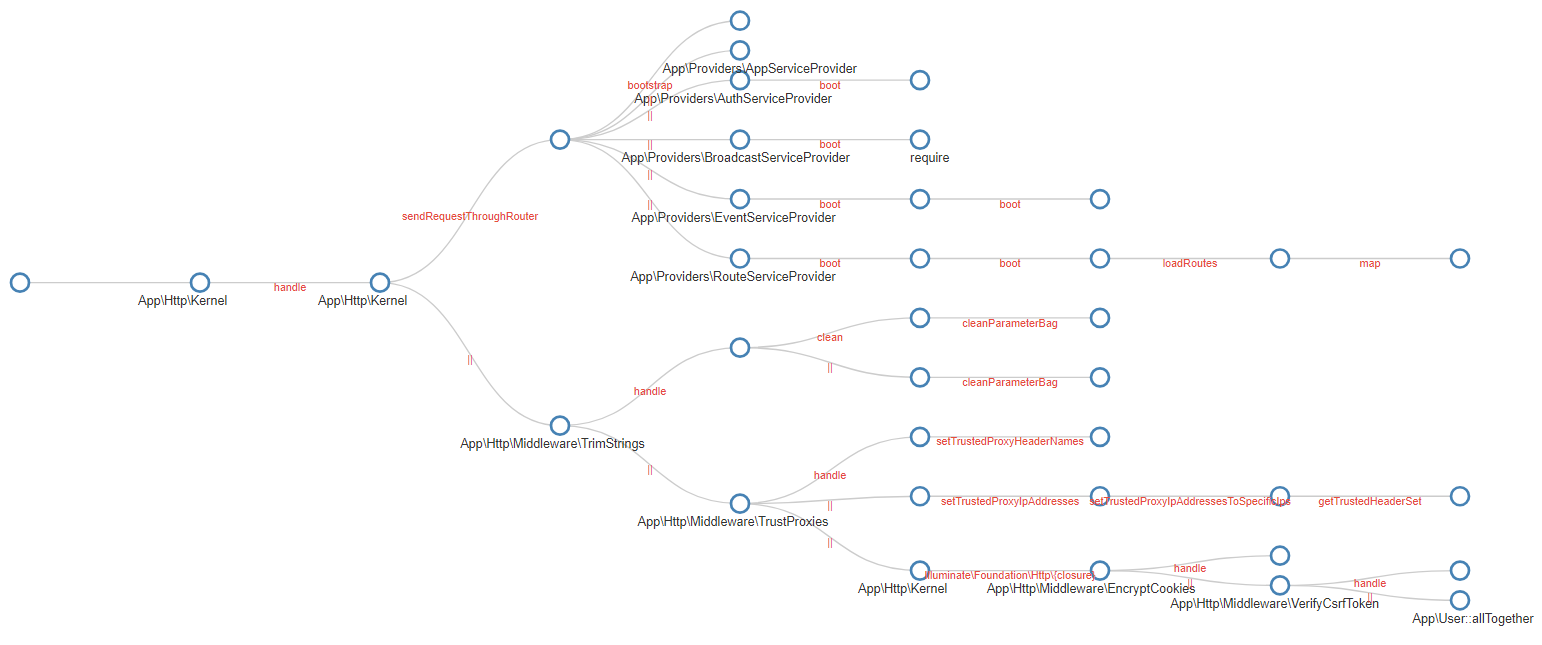
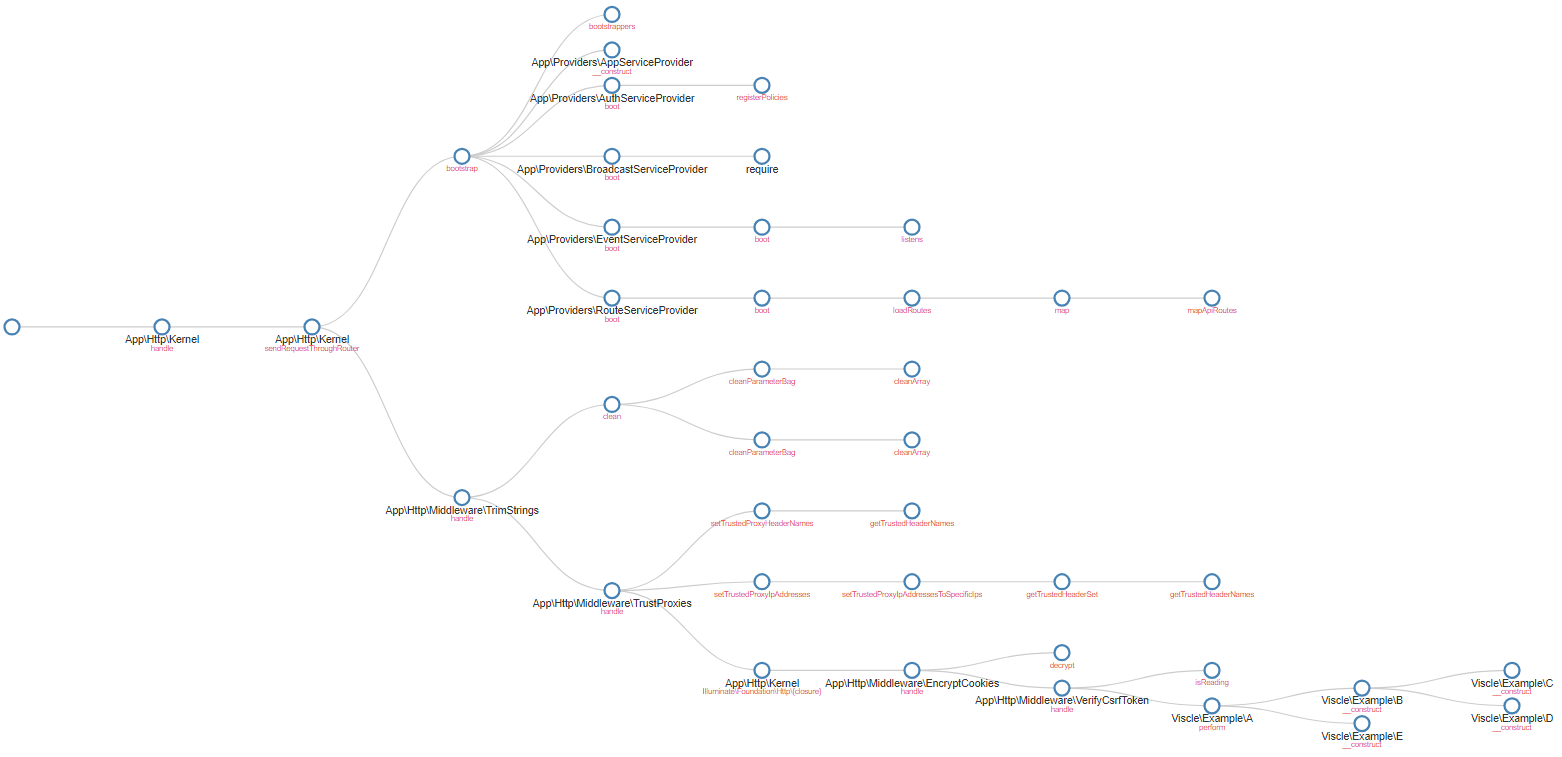
Auto size, better display, method names are now shown below to their class names

diff --git a/src/template/default.php b/src/template/default.php
@@ -27,9 +27,13 @@
                 stroke: #ccc;
                 stroke-width: 1.5px;
             }
-            .link text {
-                font: 12px sans-serif;
+            .link{
+                font: 10px sans-serif;
                 fill: #e74c3c;
+            }
+            .static{
+                font-style: italic;
+                fill: #f0ad4e;
             }
         </style>
 
@@ -43,9 +47,53 @@
         <script>
 
             var treeData = <?php echo $data ?>;
+
+            var viscle = {};
+            var nodesPerLevel = [];
+
+            viscle.depth = function (object, currentLevel = 0) {
+                var level = 0;
+
+                if (object['children'] !== undefined || object.length !== undefined) {
+                    var depth;
+                    if (object['children'] !== undefined) {
+                        depth = viscle.depth(object['children'], ++currentLevel);
+                    } else {
+
+                        if (object.length > 0) {
+                            if (nodesPerLevel[currentLevel] === undefined) {
+                                nodesPerLevel[currentLevel] = object.length;
+                            } else {
+                                nodesPerLevel[currentLevel] += object.length;
+                            }
+                        }
+
+                        var maxDepth = 0;
+                        for (var i = 0; i < object.length; i++) {
+                            depth = viscle.depth(object[i], currentLevel) + 1;
+
+                            if (depth > maxDepth) {
+                                maxDepth = depth;
+                            }
+
+                        }
+                        depth = maxDepth;
+                    }
+                    level = Math.max(depth, level);
+                }
+                return level;
+            }
+
+            var treeDepth = viscle.depth(treeData);
+            var maxNodesPerLevel = Math.max.apply(Math, nodesPerLevel);
+            maxNodesPerLevel = maxNodesPerLevel < 4 ? 4 : maxNodesPerLevel;
+            var ratio = maxNodesPerLevel / treeDepth;
             
-            var chartWidth = 1800;
-            var chartHeight = 750;
+            ratio = ratio < 1 ? 1 : ratio;
+
+            var dxStep = 200;
+            var chartWidth = treeDepth * ratio * dxStep;
+            var chartHeight = maxNodesPerLevel * (ratio === 1 ? 1.5 : ratio) * 80;
 
             // ************** Generate the tree diagram	 *****************
             var margin = {top: 20, right: 20, bottom: 20, left: 20},
@@ -86,7 +134,7 @@
 
                 // Normalize for fixed-depth.
                 nodes.forEach(function (d) {
-                    d.y = d.depth * 200;
+                    d.y = d.depth * ratio * dxStep;
                 });
 
                 // Update the nodes…
@@ -111,16 +159,33 @@
 
                 nodeEnter.append("text")
                         .attr("x", function (d) {
-                            return d.children || d._children ? 4 * d.name.length - 30 : -3 * d.name.length + 10;
+                            return 0;
                         })
-                        .attr("dy", "1.8em")
+                        .attr("dy", "1.55em")
                         .attr("text-anchor", function (d) {
-                            return d.children || d._children ? "end" : "start";
+                            return "middle";
                         })
                         .text(function (d) {
                             return d.name;
                         })
-                        .style("fill-opacity", 1e-6);
+                        .style("fill-opacity", 1e-6)
+                        //link (method/function) text
+                        .append("tspan")
+                        .attr("class", function (d) {
+                            return d.static !== undefined ? "link static" : "link";
+                        })
+                        .attr("x", function (d) {
+                            return 0;
+                        })
+                        .attr("dy", function (d) {
+                            return d.name !== '' ? "1em" : "2em";
+                        })
+                        .attr("text-anchor", function (d) {
+                            return "middle";
+                        })
+                        .text(function (d) {
+                            return d.link;
+                        });
 
                 // Transition nodes to their new position.
                 var nodeUpdate = node.transition()
@@ -178,40 +243,6 @@
                             var o = {x: source.x, y: source.y};
                             return diagonal({source: o, target: o});
                         })
-                        .remove();
-
-                // Update the link text
-                var linktext = svg.selectAll("g.link")
-                        .data(links, function (d) {
-                            return d.target.id;
-                        });
-                        
-                var linktextControl = [];
-                        
-                linktext.enter()
-                        .insert("g")
-                        .attr("class", "link")
-                        .append("text")
-                        .attr("dy", ".8em")
-                        .attr("text-anchor", "middle")
-                        .text(function (d) {
-                            if(linktextControl['id' + d.source.id + d.source.link] === undefined){
-                                linktextControl['id' + d.source.id + d.source.link] = true;
-                                return d.source.link;
-                            }
-                            
-                            return '||';
-                        });
-
-                // Transition link text to their new positions
-                linktext.transition()
-                        .duration(duration)
-                        .attr("transform", function (d) {
-                            return "translate(" + ((d.source.y + d.target.y) / 2) + "," + ((d.source.x + d.target.x) / 2) + ")";
-                        });
-
-                //Transition exiting link text to the parent's new position.
-                linktext.exit().transition()
                         .remove();
 
                 // Stash the old positions for transition.

diff --git a/src/Parser.php b/src/Parser.php
@@ -9,6 +9,7 @@ namespace Viscle;
  */
 class Parser
 {
+
     //columns of "xt" file (xdebug trace)
     public const OBJECT_ID_COL = 0;
     public const FUNCTION_ID_COL = 1;
@@ -62,15 +63,27 @@ class Parser
             //STATUS OPENED => it means new node
             if ($rowExploded[self::STATUS_COL] == self::STATUS_OPENED) {
 
+                $node = [];
+                
                 $linkName = '';
                 $objMethodExploded = explode('->', $rowExploded[self::NAME_COL]);
+                //check if it is an object method 
                 //define the function name to be shown in link between nodes
                 if (count($objMethodExploded) === 2) {
                     $rowExploded[self::NAME_COL] = $objMethodExploded[0];
                     $linkName = $objMethodExploded[1];
+                } 
+                //check if it is an object (static) method 
+                else {
+                    $objMethodExploded = explode('::', $rowExploded[self::NAME_COL]);
+                    //define the function name to be shown in link between nodes
+                    if (count($objMethodExploded) === 2) {
+                        $rowExploded[self::NAME_COL] = $objMethodExploded[0];
+                        $linkName = $objMethodExploded[1];
+                        $node['static'] = true;
+                    }
                 }
 
-                $node = [];
                 $node['name'] = $rowExploded[self::NAME_COL];
                 $node['link'] = $linkName;
                 $node['children'] = [];

diff --git a/src/Filter/Standard.php b/src/Filter/Standard.php
@@ -21,7 +21,8 @@ class Standard implements FilterInterface
         'Illuminate\\',
         'Reflection',
         'Symfony\\',
-        'Swift'
+        'Swift',
+        'Zend\\',
     ];
 
     public function set()

diff --git a/readme.md b/readme.md
@@ -35,25 +35,60 @@ It will render like following:
 ![Example 1](/example/image/1.png)
 
 
-* Example 2 - Usage in a framework like Laravel:
+* Example 2 - Usage in a framework (Laravel):
 
 ```php
 //inside public/index.php
 require __DIR__.'/../vendor/autoload.php';
 
 $filter = new \Viscle\Filter\NamespaceWhitelist();
-$filter->classes = ['App']; //We don't want our graph too long, right?! ;)
+//We don't want our graph too long, right?! ;)
+$filter->classes = [
+    'App',
+    'Viscle\Example' //it's just to include Viscle example in our graph
+];
 
 \Viscle\Viscle::capture($filter); 
 
 ...
 
 //inside your controller/action or route closure
+
+//just an example to show in graph
+$a = new \Viscle\Example\A;
+$a->perform();
+
 echo \Viscle\Viscle::render();
 ```
 It will render like following:
 
 ![Example 2](/example/image/2.png)
+
+
+* Example 3 - Usage in a framework (Zend Framework 3):
+
+```php
+//inside public/index.php
+include __DIR__ . '/../vendor/autoload.php';
+
+$filter = new \Viscle\Filter\NamespaceWhitelist();
+$filter->classes = ['Application', 'Album', 'Viscle\Example'];
+
+\Viscle\Viscle::capture($filter); 
+
+...
+
+//inside your controller/action
+
+//just an example to show in graph
+$a = new \Viscle\Example\A;
+$a->perform();
+
+echo \Viscle\Viscle::render();
+```
+It will render like following:
+
+![Example 3](/example/image/3.png)
 
 ## Requirements
 
